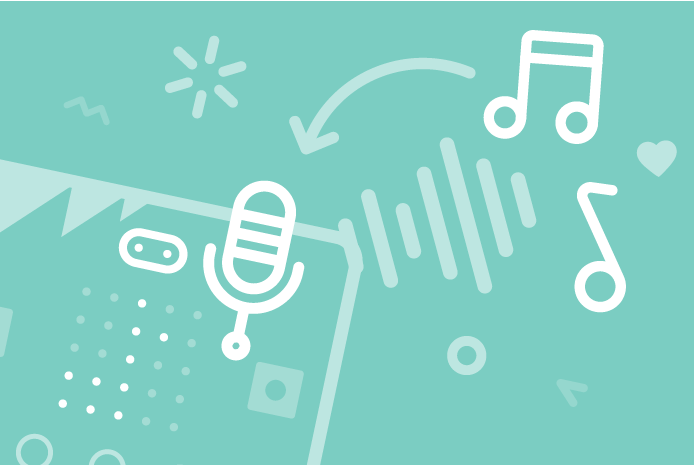
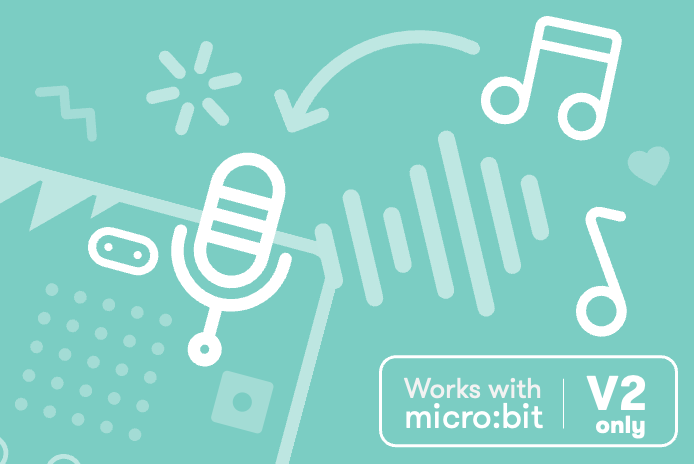
[stable6.0] Ports for hot fix (#5317)
* Update extension images for datalogger and mic (#5315)

These use the proper 'V2 only' logo and match the style for
datlogging to the other extensions

* Audio Recording extension reference pages (#5261)

* set placeholder docs

* update the top level ref page

* filled in ref pages

* add a dest copy for 'learn more'

* set help paths for ref pages

* Bumped CODAL to v0.2.56 and the Samples repo to v0.2.13 (#5316)

* pxt-core: v9.0.11 -> v9.0.12

---------

diff --git a/libs/audio-recording/recording.ts b/libs/audio-recording/recording.ts
@@ -100,6 +100,7 @@ namespace record {
     //% blockId="record_startRecording"
     //% weight=70
     //% parts="microphone"
+    //% help=record/start-recording
     export function startRecording(mode: BlockingState): void {
         music._onStopSound(stopPlayback);
         eraseRecording();
@@ -115,6 +116,7 @@ namespace record {
     //% blockId="record_playAudio"
     //% weight=60
     //% parts="microphone"
+    //% help=record/play-audio
     export function playAudio(mode: BlockingState): void {
         play();
         if (mode === BlockingState.Blocking) pauseUntil(audioNotPlaying);
@@ -142,6 +144,7 @@ namespace record {
     //% block="audio is $status"
     //% blockId="record_audioStatus"
     //% parts="microphone"
+    //% help=record/audio-status
     export function audioStatus(status: AudioStatus): boolean {
         switch (status) {
             case AudioStatus.Playing:
@@ -162,6 +165,7 @@ namespace record {
     //% blockId="record_setMicGain"
     //% parts="microphone"
     //% weight=30
+    //% help=record/set-mic-gain
     export function setMicGain(gain: AudioLevels): void {
         switch (gain) {
             case AudioLevels.Low:
@@ -187,6 +191,7 @@ namespace record {
     //% expandableArgumentMode="enabled"
     //% parts="microphone"
     //% weight=40
+    //% help=record/set-sample-rate
     export function setSampleRate(hz: number, scope?: AudioSampleRateScope): void {
         switch (scope) {
             case AudioSampleRateScope.Playback:

diff --git a/libs/audio-recording/docs/reference/record/set-sample-rate.md b/libs/audio-recording/docs/reference/record/set-sample-rate.md
@@ -1,0 +1,43 @@
+# set Sample Rate
+
+Set the sample rate for audio recording and playback.
+
+```sig
+record.setSampleRate(11000)
+```
+
+While recording, the sample rate determines how many audio "samples", or moments in time, of sound are recorded each second. If the sample rate is set to `1000`, then only 1000 moments of sound are recorded during a second. The higher the sample rate, the closer to the actual natural sound the playback will be. However, if a high sample rate is used, the audio buffer will have less duration of time for sound because more samples are used per second.
+
+When playing back, the sample rate sets the speed at which the sound is taken from the audio buffer and sent to the speaker or sound output pin. If the audio in the buffer was recorded at `11000` samples per second but the current sample rate is set at `22000`, the playback of the audio is twice as fast as it was recorded and it will sound different. The sound will play slower that the recorded sound if the playback sample rate is set to `550` before playing the audio back.
+
+## Parameters
+
+* **hz**: the [number](/types/number) of samples per second to record or play back.
+* **scope**: an optional operation scope for the sample rate.
+>* `everything`: (default) both recording and playback are at the same rate.
+>* `playback`: audio playback is at this sample rate.
+> * `recording`: audio recording is at this sample rate.
+
+## Example
+
+Record audio at `22000` samples per second but play it back at `11000` samples per second.
+
+```blocks
+record.setSampleRate(22000, record.AudioSampleRateScope.Recording)
+record.setSampleRate(11000, record.AudioSampleRateScope.Playback)
+input.onButtonPressed(Button.A, function () {
+    record.startRecording(record.BlockingState.Blocking)
+})
+input.onButtonPressed(Button.B, function () {
+    record.playAudio(record.BlockingState.Blocking)
+})
+```
+
+## See also
+
+[start recording](/reference/record/start-recording),
+[play audio](/reference/record/play-audio)
+
+```package
+audio-recording
+```

diff --git a/libs/audio-recording/docs/reference/record/start-recording.md b/libs/audio-recording/docs/reference/record/start-recording.md
@@ -1,0 +1,39 @@
+# start Recording
+
+Begin recording sound in the audio buffer.
+
+```sig
+record.startRecording(record.BlockingState.Blocking)
+```
+
+Audio recording starts and is recorded for a short period of time. Any previous audio is overwritten and the new audio takes its place. Audio is recorded on the micro:bit as a sequence of [numbers](/types/number) that represent sound and its loudness at a particular moment in time. This is called a sound "sample". The number of "samples" used to record sounds during one second is called the [sample rate](/reference/record/set-sample-rate).
+
+When audio is recorded, the audio buffer will contain enough samples that, when played back, will approximate natural sound waves as you listen to it. Any previous audio that was recorded is replaced with new audio.
+
+## Parameters
+
+* **mode**: the blocking state for the recording operation.
+>* `until done`: the audio is recorded first and then the program continues.
+>* `in background`: the audio is recorded while the program continues.
+
+## Example
+
+Use the micro:bit as a sound recorder. Record sound when button `A` is pressed and play sound when button `B` is pressed.
+
+```blocks
+input.onButtonPressed(Button.A, function () {
+    record.startRecording(record.BlockingState.Blocking)
+})
+input.onButtonPressed(Button.B, function () {
+    record.playAudio(record.BlockingState.Blocking)
+})
+```
+
+## See also
+
+[play audio](/reference/record/play-audio),
+[set sample rate](/reference/record/set-sample-rate)
+
+```package
+audio-recording
+```

diff --git a/libs/audio-recording/docs/reference/audio-recording.md b/libs/audio-recording/docs/reference/audio-recording.md
@@ -1,0 +1,47 @@
+# Audio recording
+
+The **audio recording** extension lets you record and play back audio with the micro:bit. If your version of the micro:bit has a microphone you can record a brief amount of audio and play it back on the speaker or at a sound output pin. Audio that you record is stored in an audio [buffer](/types/buffer) and can be played later or recorded over with new audio.
+
+### ~ reminder
+
+#### Works with micro:bit V2
+
+![works with micro:bit V2 only image](/static/v2/v2-only.png)
+
+Using these blocks requires the [micro:bit V2](/device/v2) hardware. If you use any blocks that attempt access flash memory on a micro:bit v1 board, you will see the **927** error code on the screen.
+
+### ~
+
+## Blocks in this extension
+
+### Record and play
+
+```cards
+record.startRecording(record.BlockingState.Blocking)
+record.playAudio(record.BlockingState.Blocking)
+```
+
+### Settings
+
+```cards
+record.setSampleRate(11000)
+record.setMicGain(record.AudioLevels.Low)
+```
+
+### Status
+
+```cards
+record.audioStatus(record.AudioStatus.Playing)
+```
+
+## See also
+
+[start recording](/reference/record/start-recording),
+[play audio](/reference/record/play-audio),
+[set sample rate](/reference/record/set-sample-rate),
+[set mic gain](/reference/record/set-mic-gain),
+[audio status](/reference/record/audio-status)
+
+```package
+audio-recording
+```

diff --git a/libs/audio-recording/docs/reference/record.md b/libs/audio-recording/docs/reference/record.md
@@ -1,0 +1,47 @@
+# Audio recording
+
+The **audio recording** extension lets you record and play back audio with the micro:bit. If your version of the micro:bit has a microphone you can record a brief amount of audio and play it back on the speaker or at a sound output pin. Audio that you record is stored in an audio [buffer](/types/buffer) and can be played later or recorded over with new audio.
+
+### ~ reminder
+
+#### Works with micro:bit V2
+
+![works with micro:bit V2 only image](/static/v2/v2-only.png)
+
+Using these blocks requires the [micro:bit V2](/device/v2) hardware. If you use any blocks that attempt access flash memory on a micro:bit v1 board, you will see the **927** error code on the screen.
+
+### ~
+
+## Blocks in this extension
+
+### Record and play
+
+```cards
+record.startRecording(record.BlockingState.Blocking)
+record.playAudio(record.BlockingState.Blocking)
+```
+
+### Settings
+
+```cards
+record.setSampleRate(11000)
+record.setMicGain(record.AudioLevels.Low)
+```
+
+### Status
+
+```cards
+record.audioStatus(record.AudioStatus.Playing)
+```
+
+## See also
+
+[start recording](/reference/record/start-recording),
+[play audio](/reference/record/play-audio),
+[set sample rate](/reference/record/set-sample-rate),
+[set mic gain](/reference/record/set-mic-gain),
+[audio status](/reference/record/audio-status)
+
+```package
+audio-recording
+```

diff --git a/libs/audio-recording/docs/reference/record/set-mic-gain.md b/libs/audio-recording/docs/reference/record/set-mic-gain.md
@@ -1,0 +1,40 @@
+# set Mic Gain
+
+Set the sensitivity for the microphone to detect and record sounds.
+
+```sig
+record.setMicGain(record.AudioLevels.Low)
+```
+
+The microphone will detect sounds at a certain loudness level. You can decide if you want to record only loud sounds or quieter sounds too by setting the microphone gain.
+
+Setting the microphone to `low` sensitivity will make the microphone pick up louder sounds. Setting the microphone to `high` sensitivity will make the microphone pick up all sorts of noise that you might not hear!
+
+## Parameters
+
+* **gain**: the sensitivity level for the microphone to detect and record sounds.
+>* `low`: set the gain level to detect only loud sounds.
+>* `medium` set the gain level to detect most sounds.
+>* `high`: set the gain level to detect quiet and loud sounds.
+
+## Example
+
+Use buttons `A` and `B` to record and play audio. Set the microphone gain to `low` so that only loud sounds are recorded.
+
+```blocks
+record.setMicGain(record.AudioLevels.Low)
+input.onButtonPressed(Button.A, function () {
+    record.startRecording(record.BlockingState.Blocking)
+})
+input.onButtonPressed(Button.B, function () {
+    record.playAudio(record.BlockingState.Blocking)
+})
+```
+
+## See also
+
+[start recording](/reference/record/start-recording)
+
+```package
+audio-recording
+```

diff --git a/libs/audio-recording/docs/reference/record/audio-status.md b/libs/audio-recording/docs/reference/record/audio-status.md
@@ -1,0 +1,45 @@
+# audio Status
+
+Check to see if an audio buffer status is true or not.
+
+```sig
+record.audioStatus(record.AudioStatus.Playing)
+```
+
+The audio buffer has several status conditions that you can check. It will return `true` or `false` to tell you if the audio is playing, recording, stopped or the buffer has nothing in it.
+
+## Parameters
+
+* **status**: the audio status to check for.
+>* `playing`: audio is currently playing.
+>* `recording`: audio is currently recording.
+>* `stopped`: audio playback is stopped.
+>* `empty`: there is no audio recorded.
+
+## Returns
+
+* a [boolean](/types/boolean) value indicating whether the audio status type requested is either `true` or `false`.
+
+## Example
+
+Use buttons `A` and `B` to record and play audio. If no audio is recorded, skip the playback when button `B` is pressed.
+
+```blocks
+input.onButtonPressed(Button.A, function () {
+    record.startRecording(record.BlockingState.Blocking)
+})
+input.onButtonPressed(Button.B, function () {
+    if (!(record.audioStatus(record.AudioStatus.BufferEmpty))) {
+        record.playAudio(record.BlockingState.Blocking)
+    }
+})
+```
+
+## See also
+
+[start recording](/reference/record/start-recording),
+[play audio](/reference/record/play-audio)
+
+```package
+audio-recording
+```

diff --git a/libs/audio-recording/docs/reference/record/play-audio.md b/libs/audio-recording/docs/reference/record/play-audio.md
@@ -1,0 +1,36 @@
+# play Audio
+
+Play the audio that was previously recorded in the audio buffer.
+
+```sig
+record.playAudio(record.BlockingState.Blocking)
+```
+
+Any audio recorded in the audio buffer is played on the speaker or at the sound output pin. If there is nothing in the buffer, no sound is played.
+
+## Parameters
+
+* **mode**: the blocking state for audio playback.
+>* `until done`: all of the audio is first played and then the program continues.
+>* `in background`: the audio is played while the program continues.
+
+## Example
+
+Use the micro:bit as a sound recorder. Record sound when button `A` is pressed and play sound when button `B` is pressed.
+
+```blocks
+input.onButtonPressed(Button.A, function () {
+    record.startRecording(record.BlockingState.Blocking)
+})
+input.onButtonPressed(Button.B, function () {
+    record.playAudio(record.BlockingState.Blocking)
+})
+```
+## See also
+
+[start recording](/reference/record/start-recording),
+[set sample rate](/reference/record/set-sample-rate)
+
+```package
+audio-recording
+```
